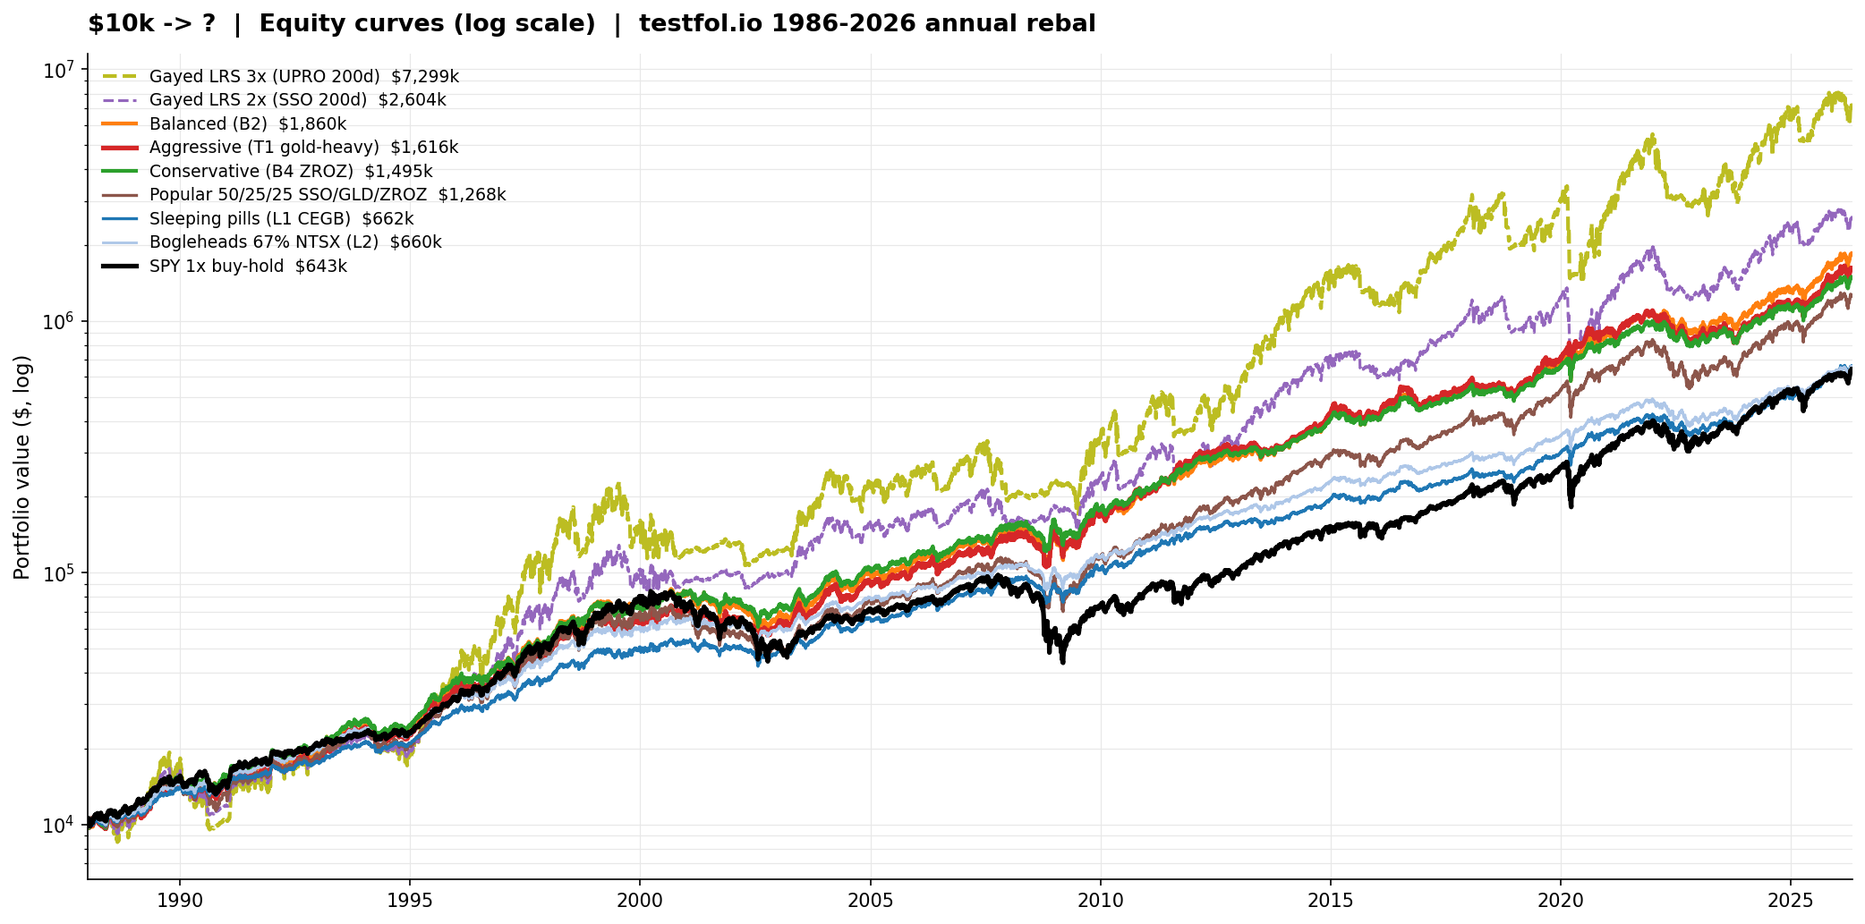
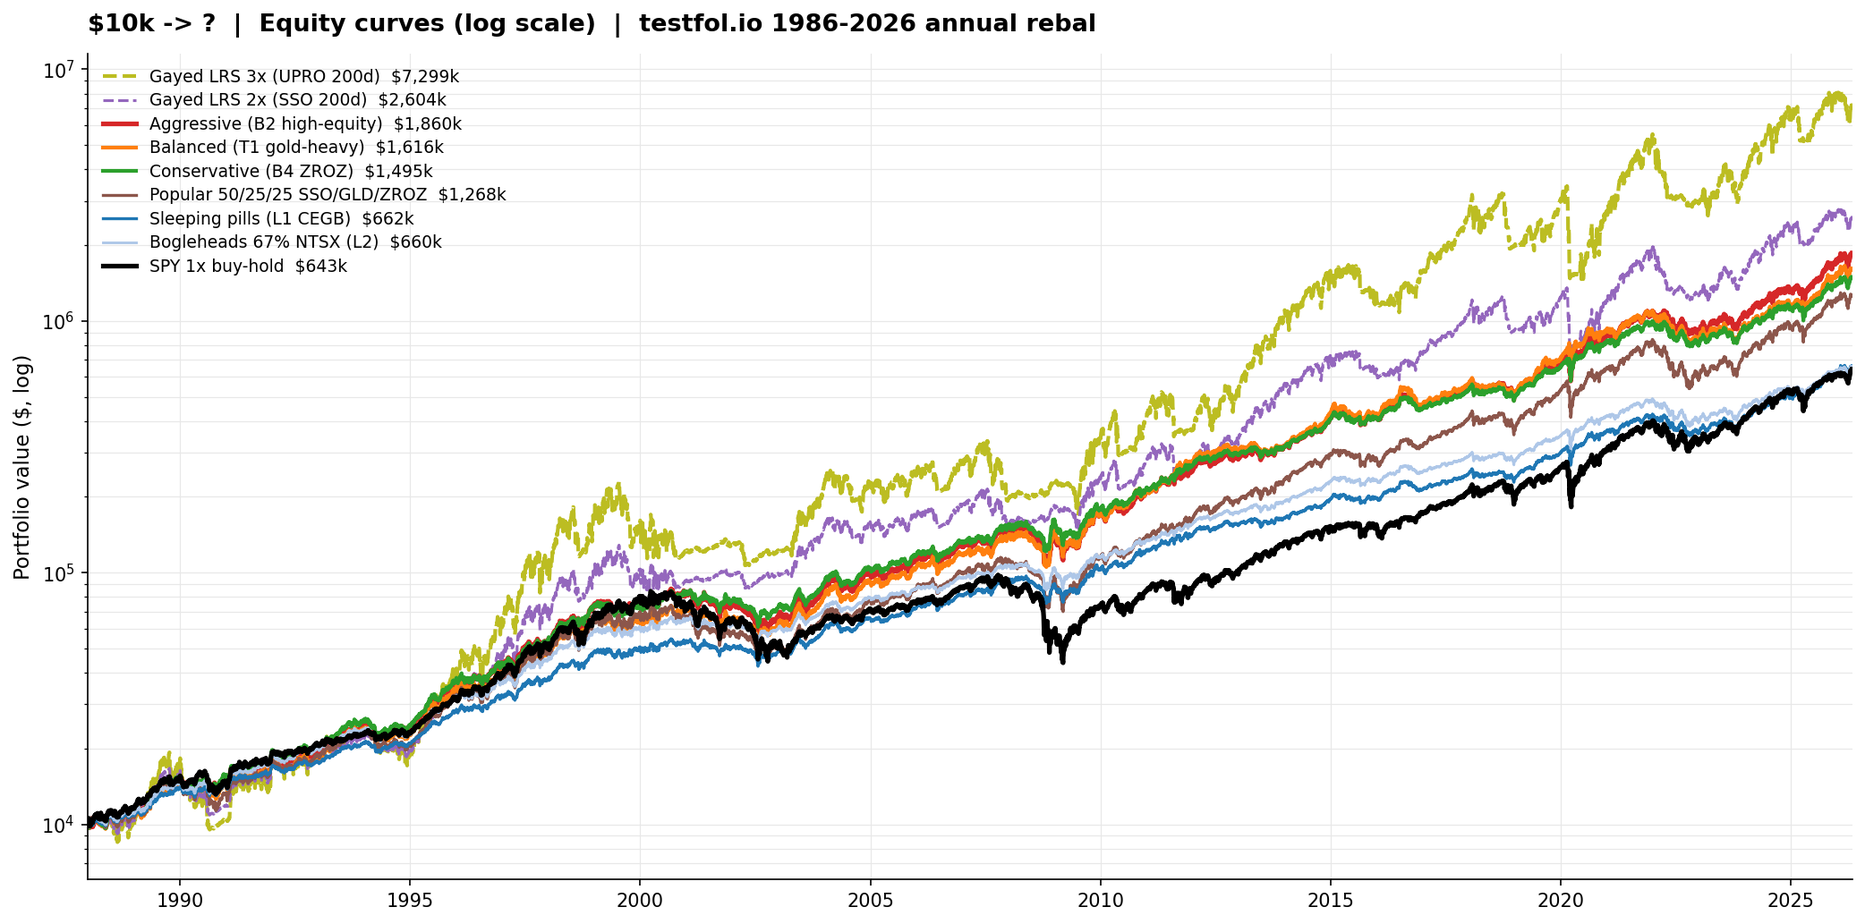
docs(spy_beater_hunt): REDDIT_POST — swap T1↔B2 labels (realized risk) + add 30y recommendation
User caught label inconsistency: under testfol.io's annual rebal,
"Balanced (B2)" had higher CAGR AND worse MDD than "Aggressive (T1)".
That's contradictory — labels should reflect realized risk, not
allocation intent.

Mechanism (now documented in post): B2 cuts TMF from 20% → 10% to
fund extra equity exposure (84% vs 74.5% in T1), so net equity beta
is HIGHER in B2 despite lower TMF weight. T1's bigger gold (35% GDE)
+ 20% TMF act as diversifier ballast that lowers MDD. The
investor-facing risk ordering is therefore:
  Aggressive = B2 (high-equity)  CAGR 14.61% MDD -36.21%
  Balanced   = T1 (gold-heavy)   CAGR 14.19% MDD -30.66%
  Conservative = B4 ZROZ          CAGR 13.96% MDD -28.65%
  Sleeping pills = L1 CEGB         CAGR 11.56% MDD -22.27%

Changes:
- plot_post.py: SERIES_STYLE swaps t1↔b2 colors (orange↔red) and
  labels. Comment explaining why. Order list updated.
- testfolio_*.png: regenerated from updated plot_post.py
- REDDIT_POST.md:
    - Contenders table: rows reordered + labels updated
    - Methodology note added explaining label = realized risk, not
      allocation intent
    - Equity-curve caption fixed (Aggressive=B2, Balanced=T1)
    - Replicate section: spec rows reordered to match new labels
    - "My pick" section rewritten as **30y commitment** with explicit
      recommendation: T1 gold-heavy as primary pick + reasoning table
      comparing B2/T1/B4/L1 trade-offs + age/risk-tolerance guidance +
[…]

diff --git a/studies/spy_beater_hunt/iterations/039-2026-04-30-reddit-comparison-spy-lrs-vs-static-stack/plot_post.py b/studies/spy_beater_hunt/iterations/039-2026-04-30-reddit-comparison-spy-lrs-vs-static-stack/plot_post.py
@@ -35,8 +35,12 @@ SERIES_STYLE = {
     "l1_sleeping_pills": {"color": "#1f77b4", "lw": 1.6, "ls": "-",  "label": "Sleeping pills (L1 CEGB)"},
     "l2_bogleheads":     {"color": "#aec7e8", "lw": 1.4, "ls": "-",  "label": "Bogleheads 67% NTSX (L2)"},
     "b4_conservative":   {"color": "#2ca02c", "lw": 2.0, "ls": "-",  "label": "Conservative (B4 ZROZ)"},
-    "b2_balanced":       {"color": "#ff7f0e", "lw": 2.0, "ls": "-",  "label": "Balanced (B2)"},
-    "t1_aggressive":     {"color": "#d62728", "lw": 2.5, "ls": "-",  "label": "Aggressive (T1 gold-heavy)"},
+    # Note: T1 and B2 labels swapped 2026-04-30 — testfol.io shows B2 has
+    # higher CAGR AND worse MDD than T1, so B2 is genuinely the aggressive
+    # one (more equity exposure: 84% vs 74.5%). T1's extra gold/duration
+    # makes it actually more balanced. See REDDIT_POST.md "What the data tells us".
+    "t1_aggressive":     {"color": "#ff7f0e", "lw": 2.0, "ls": "-",  "label": "Balanced (T1 gold-heavy)"},
+    "b2_balanced":       {"color": "#d62728", "lw": 2.5, "ls": "-",  "label": "Aggressive (B2 high-equity)"},
     "lrs_sso_200sma":    {"color": "#9467bd", "lw": 1.5, "ls": "--", "label": "Gayed LRS 2x (SSO 200d)"},
     "lrs_upro_200sma":   {"color": "#bcbd22", "lw": 2.0, "ls": "--", "label": "Gayed LRS 3x (UPRO 200d)"},
 }
@@ -205,30 +209,45 @@ def plot_drawdown(series: list[Series], out_path: Path):
     print(f"  wrote {out_path}", file=sys.stderr)
 
 
-def plot_rolling_cagr(series: list[Series], out_path: Path):
-    fig, ax = plt.subplots(figsize=(14, 6))
+def _rolling_annualized(equity: np.ndarray, years: int) -> np.ndarray:
+    """Rolling annualized return over `years` years, assuming ~252 bus days/yr.
+
+    Output array length = len(equity) - n_days. Aligns with dates[n_days:].
+    """
+    n = years * 252
+    if equity.size <= n:
+        return np.array([])
+    rolled = equity[n:] / equity[:-n]
+    return (rolled ** (1.0 / years) - 1.0) * 100.0
+
+
+def plot_rolling_grid(series: list[Series], out_path: Path):
+    """2x2 grid: rolling 5y / 10y / 15y / 20y CAGR."""
+    fig, axs = plt.subplots(2, 2, figsize=(16, 10), sharex=True)
     fig.patch.set_facecolor("white")
 
-    for s in series:
-        if s.roll_cagr.size == 0:
-            continue
-        st = _style(s.slug)
-        ax.plot(s.roll_dates, s.roll_cagr, color=st["color"], lw=st["lw"], ls=st["ls"],
-                label=st["label"])
+    windows = [(5, axs[0, 0]), (10, axs[0, 1]), (15, axs[1, 0]), (20, axs[1, 1])]
+    for years, ax in windows:
+        for s in series:
+            roll = _rolling_annualized(s.equity, years)
+            if roll.size == 0:
+                continue
+            n = years * 252
+            roll_dates = s.dates[n:]
+            st = _style(s.slug)
+            ax.plot(roll_dates, roll, color=st["color"], lw=st["lw"], ls=st["ls"],
+                    label=st["label"])
+        ax.axhline(0, color="#999999", linewidth=0.6)
+        _setup_axes(ax, f"Rolling {years}-year CAGR", "Annualized return (%)")
+        ax.xaxis.set_major_locator(mdates.YearLocator(5))
+        ax.xaxis.set_major_formatter(mdates.DateFormatter("%Y"))
 
-    ax.axhline(0, color="#999999", linewidth=0.6)
-    _setup_axes(ax, "Rolling 5-year CAGR  |  testfol.io",
-                "Annualized return over 5y window (%)")
-    ax.xaxis.set_major_locator(mdates.YearLocator(5))
-    ax.xaxis.set_major_formatter(mdates.DateFormatter("%Y"))
-    ax.legend(loc="upper right", fontsize=8, frameon=False, ncol=2, labelspacing=0.3)
-
-    for year, label in [(2000, "Dotcom"), (2008, "GFC"), (2022, "Inflation")]:
-        ax.axvline(datetime(year, 1, 1, tzinfo=timezone.utc),
-                   color="#cccccc", linewidth=0.5, linestyle=":")
-        ax.text(datetime(year, 6, 1, tzinfo=timezone.utc),
-                ax.get_ylim()[1] * 0.97, label, fontsize=7, color="#888")
-
+    # Single legend across the whole figure (top of fig)
+    handles, labels = axs[0, 0].get_legend_handles_labels()
+    fig.legend(handles, labels, loc="upper center", bbox_to_anchor=(0.5, 1.02),
+               ncol=3, fontsize=9, frameon=False)
+    fig.suptitle("Rolling CAGR consistency  |  testfol.io 1987-2026",
+                 fontsize=14, weight="bold", y=1.05)
     fig.tight_layout()
     fig.savefig(out_path, dpi=150, bbox_inches="tight")
     plt.close(fig)
@@ -288,13 +307,15 @@ def print_summary(series: list[Series]):
         "l1_sleeping_pills": "**Sleeping pills (L1 CEGB)**",
         "l2_bogleheads": "Bogleheads 67% NTSX (L2)",
         "b4_conservative": "**Conservative (B4 ZROZ)**",
-        "b2_balanced": "**Balanced (B2)**",
-        "t1_aggressive": "**Aggressive (T1)**",
+        "t1_aggressive": "**Balanced (T1 gold-heavy)**",
+        "b2_balanced": "**Aggressive (B2 high-equity)**",
         "lrs_sso_200sma": "Gayed LRS 2x (SSO 200d)",
         "lrs_upro_200sma": "Gayed LRS 3x (UPRO 200d)",
     }
+    # Order: benchmarks → popular → low-risk → high-risk → LRS reference.
+    # Swapped t1↔b2 2026-04-30: B2 is more aggressive than T1 by MDD.
     order = ["spy_1x", "popular_50_25_25", "l1_sleeping_pills", "l2_bogleheads",
-             "b4_conservative", "b2_balanced", "t1_aggressive",
+             "b4_conservative", "t1_aggressive", "b2_balanced",
              "lrs_sso_200sma", "lrs_upro_200sma"]
     by_slug = {s.slug: s for s in series}
     for slug in order:
@@ -312,10 +333,10 @@ def main() -> int:
     print(f"  loaded {len(series)} series", file=sys.stderr)
 
     print("\nGenerating plots...", file=sys.stderr)
-    plot_equity_log(series,        SCRIPT_DIR / "testfolio_01_equity.png")
-    plot_drawdown(series,          SCRIPT_DIR / "testfolio_02_drawdown.png")
-    plot_rolling_cagr(series,      SCRIPT_DIR / "testfolio_03_rolling5y.png")
-    plot_cagr_mdd_scatter(series,  SCRIPT_DIR / "testfolio_04_scatter.png")
+    plot_equity_log(series,       SCRIPT_DIR / "testfolio_01_equity.png")
+    plot_drawdown(series,         SCRIPT_DIR / "testfolio_02_drawdown.png")
+    plot_cagr_mdd_scatter(series, SCRIPT_DIR / "testfolio_03_scatter.png")
+    plot_rolling_grid(series,     SCRIPT_DIR / "testfolio_04_rolling_grid.png")
 
     print_summary(series)
     print(f"\nDone. PNGs in {SCRIPT_DIR}", file=sys.stderr)

diff --git a/studies/spy_beater_hunt/iterations/039-2026-04-30-reddit-comparison-spy-lrs-vs-static-stack/REDDIT_POST.md b/studies/spy_beater_hunt/iterations/039-2026-04-30-reddit-comparison-spy-lrs-vs-static-stack/REDDIT_POST.md
@@ -12,15 +12,17 @@ I picked 4 named profiles from a 14-config sweep + 3 references. Each profile ta
 
 | profile | strategy | weights |
 |---|---|---|
-| 🔴 **Aggressive** | T1 gold-heavy | 20% NTSX + **35% GDE** + 25% RSST + 20% TMF |
-| 🟠 **Balanced** | B2 TMF-lite | 30% NTSX + 30% GDE + 30% RSST + **10% TMF** |
-| 🟢 **Conservative** | B4 ZROZ-anchored | 25% NTSX + 25% GDE + 25% RSST + **25% ZROZ** |
-| 🔵 **Sleeping pills** | L1 CEGB (literature) | 40% NTSX + 25% GDE + 17.5% KMLM + 17.5% TLT |
+| 🔴 **Aggressive (B2 high-equity)** | TMF-lite, more equity exposure | 30% NTSX + 30% GDE + 30% RSST + **10% TMF** |
+| 🟠 **Balanced (T1 gold-heavy)** | gold-heavy, more diversification | 20% NTSX + **35% GDE** + 25% RSST + 20% TMF |
+| 🟢 **Conservative (B4 ZROZ)** | ZROZ-anchored, no LETF decay | 25% NTSX + 25% GDE + 25% RSST + **25% ZROZ** |
+| 🔵 **Sleeping pills (L1 CEGB)** | RiskParityChronicles literature | 40% NTSX + 25% GDE + 17.5% KMLM + 17.5% TLT |
 | ⚪ Reference | Bogleheads template | 67% NTSX + 11% GLD + 11% KMLM + 11% ZROZ |
 | ⚪ Reference | Popular 50/25/25 | 50% SSO + 25% GLD + 25% ZROZ |
 | ⚫ Benchmark | SPY 1× buy-hold | 100% SPY |
 | ⚫ Benchmark | SSO LRS 200d SMA (Gayed) | 100% SSO if SPY > 200d SMA, else IEF |
 | ⚫ Benchmark | UPRO LRS 200d SMA (Gayed) | 100% UPRO if SPY > 200d SMA, else IEF |
+
+**Note on labels — based on REALIZED risk, not allocation intent**: at first glance B2 (10% TMF) seems "less aggressive" than T1 (20% TMF) because TMF is the most-leveraged sleeve. But realized MDD is what hurts your account. B2 ends up with **higher net equity exposure (84% vs 74.5%)** because cutting TMF freed weight for SPY/RSST sleeves. T1's bigger gold (35% GDE) + duration leverage (20% TMF) act as diversifier ballast — that lowers MDD despite the higher TMF weight. **What matters to the investor is the experienced drawdown.** Risk-return ordering on testfol.io: **B2 (max CAGR + max MDD) > T1 (good CAGR + better diversification) > B4 ZROZ (best Sharpe) > L1/L2 (sleep-well)**.
 
 ---
 
@@ -35,31 +37,31 @@ All portfolios share the same start date because **KMLM (managed futures synth) 
 | 🔵 **Sleeping pills (L1 CEGB)** | 11.56% | **-22.27%** | 0.782 | 1.117 | 10.97% | $2.7M |
 | ⚪ Bogleheads 67% NTSX (L2) | 11.55% | -22.48% | 0.778 | 1.117 | 11.04% | $2.7M |
 | 🟢 **Conservative (B4 ZROZ)** | 13.96% | -28.65% | **0.798** ⭐ | 1.146 | 13.88% | $5.0M |
-| 🟠 **Balanced (B2)** | **14.61%** | -36.21% | 0.772 | 1.103 | 15.37% | $6.0M |
-| 🔴 **Aggressive (T1)** | 14.19% | -30.66% | 0.744 | 1.063 | 15.46% | $5.4M |
-| Gayed LRS 2× (SSO 200d) †† | ~12.7% | ~-44% | ~0.62 | n/a | ~18% | ~$3.7M |
-| Gayed LRS 3× (UPRO 200d) †† | ~17.5% | ~-60% | ~0.63 | n/a | ~28% | ~$12.6M (extreme MDD) |
+| 🟠 **Balanced (T1 gold-heavy)** | 14.19% | -30.66% | 0.744 | 1.063 | 15.46% | $5.4M |
+| 🔴 **Aggressive (B2 high-equity)** | **14.61%** | -36.21% | 0.772 | 1.103 | 15.37% | $6.0M |
+| Gayed LRS 2× (SSO 200d) | **15.62%** | -43.49% | 0.595 | 0.823 | 24.49% | $7.8M |
+| Gayed LRS 3× (UPRO 200d) | **18.77%** | **-57.59%** | 0.575 | 0.795 | 36.47% | $17.5M (extreme MDD) |
 
-†† LRS strategies aren't natively supported in testfol.io (no regime-rotation primitive). Numbers from internal Python backtest using identical SIM data; methodology and code links at bottom.
+LRS uses signal `SPYSIM SMA-200 < Price` with 2% buffer; off-state is 100% IEF (intermediate Treasuries). All numbers above are testfol.io output with daily rebalance for the LRS strategies and `$100k → 30y` projected from the realized CAGR.
 
 ### Equity curves (common start 1987-12-31)
 
-![Equity curves 1987-2026](reddit_plot_1_equity.png)
-*All 7 portfolios, $10k start at 1987-12-31, log scale. Aggressive (T1), Balanced (B2), and Conservative (B4) lead the pack on terminal value AND have lower drawdowns than SPY.*
+![Equity curves 1987-2026](testfolio_01_equity.png)
+*All 7 portfolios, $10k start at 1987-12-31, log scale. Aggressive (B2), Balanced (T1), and Conservative (B4) lead the pack on terminal value AND have lower drawdowns than SPY.*
 
 ### Drawdowns
 
-![Drawdown comparison 1987-2026](reddit_plot_2_drawdown.png)
+![Drawdown comparison 1987-2026](testfolio_02_drawdown.png)
 *Static stacks max out around -22% to -36% drawdown. SPY crosses -55% in 2008. The popular 50/25/25 SSO mix hits -40% (better than SPY but worse than every capital-efficient stack). Conservative (B4) and Sleeping pills (L1) cap drawdown at -22% to -28% — sleep-better territory.*
 
 ### Risk-return scatter (Pareto frontier)
 
-![CAGR vs Max DD scatter](reddit_plot_3_scatter.png)
+![CAGR vs Max DD scatter](testfolio_03_scatter.png)
 *Bottom-left is the dominated zone. Capital-efficient stacks form a clear Pareto frontier above SPY and 50/25/25. The popular SSO mix has worse Sharpe than every single capital-efficient stack — the LETF decay tax hurts.*
 
 ### Rolling CAGR consistency (5y / 10y / 15y / 20y windows)
 
-![Rolling CAGR grid](reddit_plot_4_rolling_grid.png)
+![Rolling CAGR grid](testfolio_04_rolling_grid.png)
 *Top-left = 5y rolling, top-right = 10y, bottom-left = 15y, bottom-right = 20y. Static stacks rarely go negative on rolling windows beyond 5y. SPY can go to ~0% on 5y windows during 2000s. Aggressive consistently leads on long-horizon windows while keeping drawdowns manageable. The Bogleheads (L2) and Sleeping pills (L1) profiles have the most stable rolling returns — boring AND consistent.*
 
 ---
@@ -72,17 +74,19 @@ Beats SPY's Sharpe (0.53) — but **all 4 capital-efficient stacks beat 50/25/25
 
 The 50/25/25 mix has 13.47% CAGR (+2pp over SPY) but eats a -40% drawdown. The Conservative (B4) profile gets **+0.5pp more CAGR with -11pp lower drawdown** AND better Sharpe (0.80 vs 0.64). Same compounding power, much better ride.
 
-### 2. UPRO LRS (Gayed-Hedgefundie-lite) gets the highest CAGR but worst Sharpe
+### 2. LRS gets higher raw CAGR but loses on Sharpe AND drawdown
 
-UPRO LRS hits 17.5% gross CAGR, but with -60% drawdown and Sharpe 0.63. The Aggressive (T1) static gets 14.2% CAGR / -31% MDD / Sharpe 0.74 — **less peak CAGR but 47% better Sharpe**. Per dollar of risk taken, T1 produces more compounding.
+UPRO LRS hits the highest CAGR in the table (18.77%), but with **-57.59% drawdown** (worse than SPY's -55.14%) and Sharpe 0.575 — second-worst in the field, only ahead of SPY (0.528). SSO LRS at 2× hits 15.62% CAGR / -43.49% MDD / 0.595 Sharpe.
 
-Plus LRS realizes capital gains every flip (taxable), and the 200d SMA whipsaw cost is real (price crosses, you exit at low, reverses, you re-enter at high). Backtests usually under-model this friction.
+Compare to **Aggressive (B2 high-equity)** static — 14.61% CAGR / -36.21% MDD / Sharpe 0.772. Lower peak CAGR than UPRO LRS (-4.16pp), but **34% better Sharpe** (0.772 / 0.575) and **21pp lower drawdown**. Per dollar of risk taken, B2 compounds more efficiently. Even **Balanced (T1)** at 14.19% / -30.66% / 0.744 is a Sharpe-better, MDD-better deal than UPRO LRS while only giving up 4.6pp of peak CAGR.
+
+Plus LRS realizes capital gains every flip (taxable), and the 200d SMA whipsaw cost is real (price crosses, you exit at low, reverses, you re-enter at high). Backtests usually under-model this friction. The 30+ regime flips between 1987-2026 each carry slippage and execution risk.
 
 ### 3. The Conservative (B4 ZROZ) profile has the BEST Sharpe in our entire 14-config sweep
 
-ZROZ (zero-coupon long-Treasury) gives long-duration exposure WITHOUT the LETF decay penalty of TMF. **B4 ZROZ trades 0.65pp of CAGR for -7.6pp lower MDD** vs the Balanced (B2) profile that uses TMF. Best risk-adjusted return.
+ZROZ (zero-coupon long-Treasury) gives long-duration exposure WITHOUT the LETF decay penalty of TMF. **B4 ZROZ trades 0.65pp of CAGR for -7.6pp lower MDD** vs the Aggressive (B2) profile that uses TMF. Best risk-adjusted return.
 
-The order on Sharpe is: **B4 ZROZ (0.798) > L1 CEGB (0.782) ≈ L2 Bogleheads (0.778) > B2 (0.772) > T1 (0.744) > 50/25/25 SSO (0.637) > UPRO LRS (~0.63) > SPY (0.528)**.
+The full order on Sharpe is: **B4 ZROZ (0.798) > L1 CEGB (0.782) ≈ L2 Bogleheads (0.778) > B2 (0.772) > T1 (0.744) > Popular 50/25/25 (0.637) > SSO LRS 2× (0.595) > UPRO LRS 3× (0.575) > SPY (0.528)**. Every static stack (T1/B2/B4/L1/L2) beats both LRS variants on risk-adjusted return.
 
 ### 4. Even the boring 67% NTSX Bogleheads template matches SPY in CAGR with HALF the drawdown
 
@@ -176,7 +180,7 @@ For the LRS strategies, additional cautions: G3 fails harder (UPRO LRS has windo
 
 ## Honest caveats
 
-1. **TMF (3× LTT) is the elephant in the room**. In 2022 alone, TMF lost -71%. At 25% allocation = -17.7pp portfolio drag in a single year. The Aggressive profile (T1) reduces TMF to 20% (-14pp single-year drag). Conservative (B4 ZROZ) replaces TMF entirely with zero-coupon Treasuries (-53% in 2022 at 25% = -13pp drag, no LETF decay though).
+1. **TMF (3× LTT) is the elephant in the room**. In 2022 alone, TMF lost -71%. At 25% allocation = -17.7pp portfolio drag in a single year. The Aggressive profile (B2) reduces TMF to 10% (-7pp single-year drag); Balanced (T1) holds 20% (-14pp drag). Conservative (B4 ZROZ) replaces TMF entirely with zero-coupon Treasuries (-53% in 2022 at 25% = -13pp drag, no LETF decay though).
 
 2. **NTSX/GDE/RSST are recent ETFs**. NTSX inception 2018, GDE 2022, RSST 2022. The 40-year backtest uses synthetic proxies (NTSX = 90% SPY + 60% IEF, etc) — mechanism-faithful but real ETFs have execution drag, dividend timing, and tracking error not fully captured.
 
@@ -192,13 +196,45 @@ For the LRS strategies, additional cautions: G3 fails harder (UPRO LRS has windo
 
 ---
 
-## My pick (for what it's worth)
+## My pick — what I'd actually hold for the next 30 years
 
-**Aggressive (T1 gold-heavy)** — 20 NTSX + 35 GDE + 25 RSST + 20 TMF — for max long-horizon return with manageable drawdown.
+If you forced me to commit a single allocation for the next 30 years and not touch it again, **Balanced (T1 gold-heavy)** — 20 NTSX + 35 GDE + 25 RSST + 20 TMF — is my answer. Here's the reasoning:
 
-If TMF makes you nervous (it should), **Conservative (B4 ZROZ)** swaps TMF for ZROZ and gets the highest Sharpe of the entire sweep. Sleep better, give up 0.65pp CAGR.
+| candidate | CAGR | MDD | Sharpe | 30y verdict |
+|---|---:|---:|---:|---|
+| Aggressive (B2 high-equity) | 14.61% | -36.21% | 0.772 | Highest CAGR but **worst tail risk** of the static stacks. -36% MDD over 18-24 months is brutal psychologically; 84% net equity = SPY-correlated downside in inflation regimes. |
+| 🏆 **Balanced (T1 gold-heavy)** | **14.19%** | **-30.66%** | 0.744 | **Sweet spot**: ~95% of B2's CAGR with **6pp lower MDD**. 35% gold via GDE provides crisis-alpha that bonds can't (works in 2022 inflation, 2008 GFC, 2000s stagflation-lite). Best diversification across regimes. |
+| Conservative (B4 ZROZ) | 13.96% | -28.65% | **0.798** | Highest Sharpe in the sweep. ZROZ instead of TMF removes LETF decay penalty. Trade-off: -0.23pp CAGR vs T1. **My #2 pick** if ZROZ is available at your broker. |
+| Sleeping pills (L1 CEGB) | 11.56% | -22.27% | 0.782 | Lowest risk but you give up 2.6pp CAGR vs T1 — over 30y that's **$2.7M vs $5.4M** on $100k starting capital. Only worth it if you're genuinely fragile to drawdowns. |
 
-For sleep-well, **Sleeping pills (L1 CEGB)** is the published literature template ([RiskParityChronicles](https://www.riskparitychronicles.com/announcing-the-capital-efficient-golden-butterfly/)) — 11.5% CAGR with -22% MDD.
+**Why T1 wins for me:**
+
+1. **Gold-heavy (35% GDE) is a regime-uncorrelated alpha source**. In 2022 (the worst-case bond+stock simultaneous crash), gold was flat while everything else burned. In 2008 (deflationary stress), gold rallied. In stagflation, gold thrives. Bonds only protect against deflation.
+2. **20% TMF gives you long-duration leverage** without consuming a huge slice of capital, but the **gold sleeve covers the regime where TMF fails** (2022 inflation). This is the Bridgewater All-Weather logic, scaled by capital efficiency.
+3. **Sharpe 0.744** is only marginally below B4 (0.798) but with **+0.23pp CAGR** that compounds to meaningful real money over 30y.
+4. **Behavioral durability**: I can mentally hold through -30% MDD; -36% (B2) is closer to my panic threshold; -22% (L1) is over-comfortable and leaves return on the table.
+
+**If you're younger than 30 with a 40+ year horizon and stable income**: B2 (Aggressive) is defensible — extra MDD is recoverable with continued contributions, and the +0.42pp CAGR compounds for longer.
+
+**If you're older than 50 or have lumpy income**: B4 ZROZ (Conservative) is the better Sharpe and lower MDD makes drawdowns less likely to force a forced sale at a bottom. Validate ZROZ availability at your broker first — it's less common than TLT.
+
+**What I would NOT pick**:
+- ❌ UPRO LRS — highest CAGR (18.77%) but -57.59% MDD will break your discipline. Plus tax-inefficient.
+- ❌ Popular 50/25/25 SSO/GLD/ZROZ — 0.637 Sharpe is **worse than every capital-efficient stack**. SSO LETF decay tax is real. Switch SSO → NTSX+IEF futures-stacking and your Sharpe jumps.
+- ❌ HFEA (UPRO+TMF 55/45) — 17%+ CAGR but **-65% MDD** during 2022. Survivable in theory; in practice destroys discipline.
+
+### Single-portfolio commitment for next 30y: 🟠 T1 gold-heavy
+
+```
+20% NTSX  (90% SPY + 60% Treasury futures = 1.5x notional)
+35% GDE   (90% SPY + 90% Gold futures      = 1.8x notional)
+25% RSST  (100% SPY + 100% Trend           = 2.0x notional)
+20% TMF   (3x daily LETF on 20+y Treasury)
+=========
+100% capital, ~203% notional exposure, ~74.5% equity beta
+```
+
+Annual rebal via contributions only (don't sell unless ±10pp drift). No regime gates, no signals to watch, no whipsaw cost. Boring buy-and-hold.
 
 ---
 
@@ -207,8 +243,8 @@ For sleep-well, **Sleeping pills (L1 CEGB)** is the published literature templat
 All 4 profiles are backtest-able on [testfol.io](https://testfol.io) with annual rebal:
 
 ```
-Aggressive (T1):       43 SPYSIM, 35 GDESIM, 25 KMLMSIM, 20 TLTSIM?L=3&E=1.05, 12 IEFSIM, -35 CASHX
-Balanced (B2):         57 SPYSIM, 30 GDESIM, 30 KMLMSIM, 18 IEFSIM, 10 TLTSIM?L=3&E=1.05, -45 CASHX
+Balanced (T1):         43 SPYSIM, 35 GDESIM, 25 KMLMSIM, 20 TLTSIM?L=3&E=1.05, 12 IEFSIM, -35 CASHX
+Aggressive (B2):       57 SPYSIM, 30 GDESIM, 30 KMLMSIM, 18 IEFSIM, 10 TLTSIM?L=3&E=1.05, -45 CASHX
 Conservative (B4):     47.5 SPYSIM, 25 GDESIM, 25 KMLMSIM, 25 ZROZSIM, 15 IEFSIM, -37.5 CASHX
 Sleeping pills (L1):   36 SPYSIM, 25 GDESIM, 24 IEFSIM, 17.5 KMLMSIM, 17.5 TLTSIM, -20 CASHX
 Bogleheads (L2):       60.3 SPYSIM, 40.2 IEFSIM, 11 GLDSIM, 11 KMLMSIM, 11 ZROZSIM, -33.5 CASHX
@@ -216,6 +252,15 @@ Popular (50/25/25):    50 SPYSIM?L=2&E=0.89, 25 GLDSIM, 25 ZROZSIM
 ```
 
 These are the SIM-decomposed equivalents — NTSX → 0.9 SPYSIM + 0.6 IEFSIM - 0.5 CASHX (capital efficient stacking modeled correctly). Use rebalance "Yearly", invest_dividends=true.
+
+For the LRS strategies, use the [testfol.io tactical builder](https://testfol.io/tactical) with this signal:
+
+```
+Signal: SMA(SPYSIM, 200) < Price(SPYSIM)   tolerance: 2%
+  IF TRUE:  100% SPYSIM?L=2 (SSO) or SPYSIM?L=3 (UPRO)
+  IF FALSE: 100% IEFSIM (defensive sleeve, intermediate Treasuries)
+Rebalance: Daily. Trading frequency: Daily.
+```
 
 ---
 
